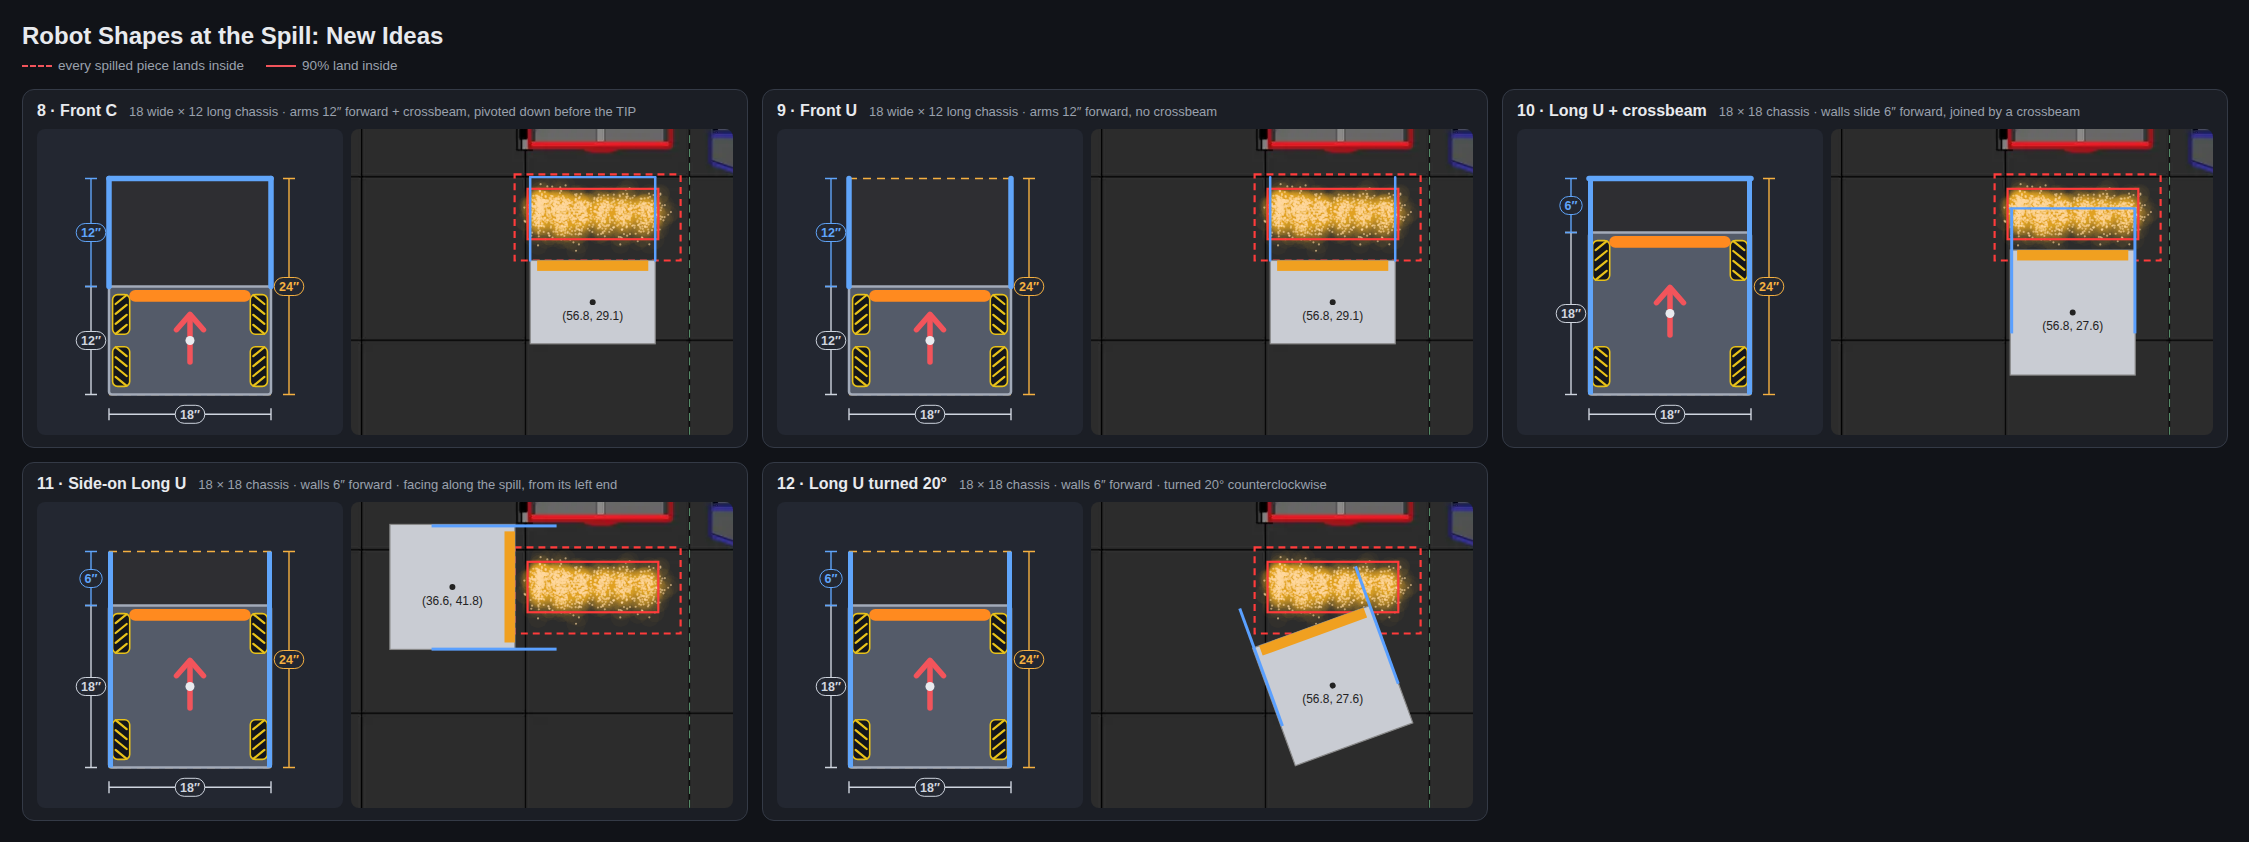
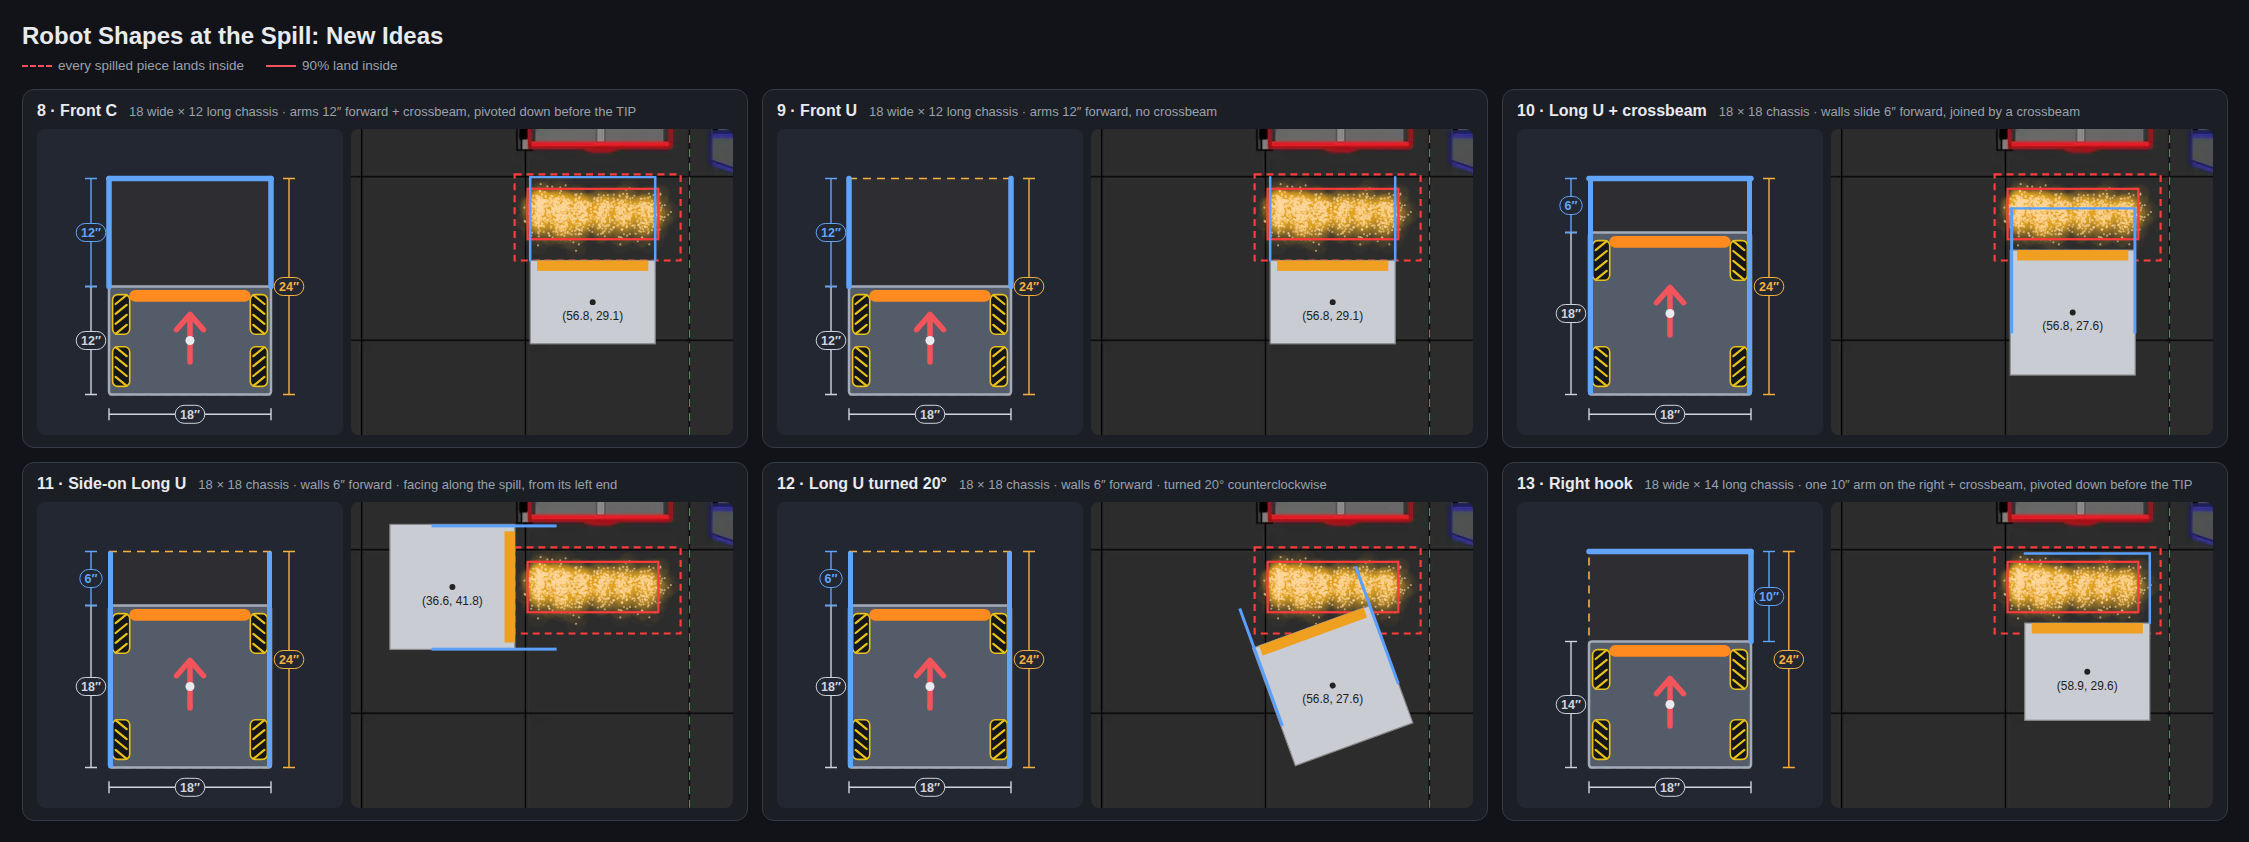
Right hook: a 14 in chassis with one 10 in arm and a crossbeam
Ideas sheet 13 (mentor, 5 Oct 2026): 18 wide x 14 long, only the right
arm, the crossbeam across the full width, the left side open; its face,
crossbeam and right side on the 95% lines (halfway between the 100% and
90% boxes). RobotDesign.flapLeft/flapRight/flapCrossbeam and FieldSim
collide them; BodyShape.FRONT_C, C_14, RIGHT_HOOK;
BodyShapeSpillTest.rightHookAtTheSpill compares them, the hook placed
for each spill. draw.py --right-only.

Refs #156

Claude-Session: https://claude.ai/code/session_017LjAKqBT9wAN9mza2EWhc5

Changed region(s): [[0.6536, 0.5558, 0.996, 0.9881]]

diff --git a/TeamCode/src/test/java/org/firstinspires/ftc/teamcode/logging/BodyShapeSpillTest.java b/TeamCode/src/test/java/org/firstinspires/ftc/teamcode/logging/BodyShapeSpillTest.java
@@ -82,6 +82,10 @@ public class BodyShapeSpillTest {
         }
         assertTrue("a 16 in body's flaps can't reach 3 in out and 3 in forward", threw);
         assertEquals(22, BodyShape.FLAPS_16.footprint()[1], 1e-9);
+        for (BodyShape b : new BodyShape[] {BodyShape.FRONT_C, BodyShape.C_14, BodyShape.RIGHT_HOOK}) {
+            assertEquals(b.name, 24, b.footprint()[0], 1e-9);
+            assertEquals(b.name, 18, b.footprint()[1], 1e-9);
+        }
         assertEquals(18, BodyShape.FLAPS_16.footprint()[0], 1e-9);
     }
 
@@ -103,6 +107,32 @@ public class BodyShapeSpillTest {
         assertTrue("touched before the tiles", p.robotBeforeTile);
         assertTrue("on the flap", p.flapBeforeTile);
         assertFalse("not the frame", p.frameBeforeTile);
+    }
+
+    /**
+     * The right hook has its crossbeam and its right arm and nothing on the left: a robot facing +x at
+     * (70, 25), so its crossbeam runs across x 87 and its right arm along y 16 (its left would be y 34).
+     */
+    @Test
+    public void rightHookHasACrossbeamAndOnlyItsRightArm() {
+        assertTrue("crossbeam", dropOnRobot(BodyShape.RIGHT_HOOK, 87, 25).flapBeforeTile);
+        assertTrue("right arm", dropOnRobot(BodyShape.RIGHT_HOOK, 82, 16).flapBeforeTile);
+        assertFalse("no left arm", dropOnRobot(BodyShape.RIGHT_HOOK, 82, 34).robotBeforeTile);
+        assertTrue("the front C has one", dropOnRobot(BodyShape.FRONT_C, 82, 34).flapBeforeTile);
+    }
+
+    /** A POLLEN dropped from 12 in onto (x, y) beside the robot shaped as {@code b}, facing +x at (70, 25). */
+    private static FieldSim.Piece dropOnRobot(BodyShape b, double x, double y) {
+        List<HiveAssets.StagedPiece> one = new ArrayList<>();
+        one.add(new HiveAssets.StagedPiece("Pollen", "floor", x, y, FieldSim.POLLEN_RADIUS_IN));
+        FieldSim sim = new FieldSim(one, 1);
+        sim.main.design = b.design();
+        sim.setRobot(70, 25, 0, 0, 0, 0, false);
+        FieldSim.Piece p = sim.pieces.get(sim.pieces.size() - 1);
+        p.z = 12;
+        p.touchedTile = false;
+        for (int i = 0; i < 100; i++) sim.step(0.01);
+        return p;
     }
 
     /**
@@ -220,6 +250,48 @@ public class BodyShapeSpillTest {
         java.nio.file.Files.write(file.toPath(), csv.toString().getBytes(java.nio.charset.StandardCharsets.UTF_8));
     }
 
+    /**
+     * The right hook (ideas sheet 13, mentor, 5 Oct 2026) against the shapes it grew from, each where the
+     * pictures put it: the plain robot and the Long U centred on the 90% box with the face halfway between
+     * the 100% and 90% lines; the front C with its face on the 100% line; the hook with its face and
+     * crossbeam on the near and far "95%" lines (halfway between the two boxes) and its right side on the
+     * right one (for the 8 POLLEN spill, and for the match-start spill, which lands 2 in further right). The
+     * same counts as {@link #atTheLandingLine}, the kept patch centred on each robot.
+     */
+    @Test
+    public void rightHookAtTheSpill() {
+        FieldSim.Physics physics = HiveCalibration.current().fit();
+        double boxX = 56.8, face95 = 36.6, right95 = 67.85;  // tools/spill-window/shapes.py: BOX_X, PARK_FACE, RIGHT_95
+        Object[][] cases = {
+                {BodyShape.PLAIN, boxX, face95}, {BodyShape.LONG_U, boxX, face95}, {BodyShape.FRONT_C, boxX, LINE_100_IN},
+                {BodyShape.C_14, boxX, face95}, {BodyShape.RIGHT_HOOK, right95 - 9, face95},
+                // On the match-start spill's right 95% line: its right edges are 72.0 (100%) and 69.2 (90%).
+                {BodyShape.RIGHT_HOOK, (72.0 + 69.2) / 2 - 9, face95}};
+        int[] loads = {0, HiveCalibration.NECTAR_AT_MATCH_START};
+        List<Sweep[]> results = java.util.Arrays.stream(cases).parallel().map(c -> {
+            BodyShape b = (BodyShape) c[0];
+            Sweep[] s = {new Sweep(), new Sweep()};
+            for (int k = 0; k < 2; k++) {
+                for (long seed = 1; seed <= TIPS; seed++) {
+                    Run r = run(physics, seed, b, (Double) c[2] + b.reach(), loads[k], (Double) c[1]);
+                    r.kept = r.keptFace;
+                    s[k].add(r);
+                }
+            }
+            return s;
+        }).collect(Collectors.toList());
+        for (int i = 0; i < cases.length; i++) {
+            BodyShape b = (BodyShape) cases[i][0];
+            Sweep[] s = results.get(i);
+            System.out.println(String.format(Locale.ROOT,
+                    "HOOK %-26s x %5.2f face %4.1f: 8 POLLEN kept %.2f of %.1f a TIP, G409 TIPs %3d (chassis %3d, guides only %3d), over 4 inside %3d"
+                            + " | match start kept %.2f of %.1f, G409 TIPs %3d (chassis %3d, guides only %3d), over 4 inside %3d",
+                    b.name, (Double) cases[i][1], (Double) cases[i][2],
+                    (double) s[0].kept / TIPS, (double) s[0].pieces / TIPS, s[0].tipsTouched, s[0].tipsFrame, s[0].tipsFlapOnly, s[0].overFour,
+                    (double) s[1].kept / TIPS, (double) s[1].pieces / TIPS, s[1].tipsTouched, s[1].tipsFrame, s[1].tipsFlapOnly, s[1].overFour));
+        }
+    }
+
     /** One TIP with the robot shaped as {@code b}, its front-most point {@code nose} in from the wall. */
     static Run run(FieldSim.Physics physics, long seed, BodyShape b, double nose, int nectar) {
         try {
@@ -238,9 +310,24 @@ public class BodyShapeSpillTest {
         return run(physics, seed, b, nose, nectar, log, shown, 0, 0);
     }
 
+    /** As the first, the robot centred at {@code robotX} instead of on the red CELL's axis. */
+    static Run run(FieldSim.Physics physics, long seed, BodyShape b, double nose, int nectar, double robotX) {
+        try {
+            return run(physics, seed, b, nose, nectar, null, -1, 0, 0, robotX);
+        } catch (IOException e) {
+            throw new java.io.UncheckedIOException(e);
+        }
+    }
+
     /** As above, logging only from sim time {@code logFrom} on, at {@code offsetUs} plus the sim time. */
     static Run run(FieldSim.Physics physics, long seed, BodyShape b, double nose, int nectar, WpiLog log, int shown,
                    double logFrom, long offsetUs) throws IOException {
+        return run(physics, seed, b, nose, nectar, log, shown, logFrom, offsetUs, FieldSim.RED_HIVE_X_IN);
+    }
+
+    /** As above, the robot centred at {@code robotX}. */
+    static Run run(FieldSim.Physics physics, long seed, BodyShape b, double nose, int nectar, WpiLog log, int shown,
+                   double logFrom, long offsetUs, double robotX) throws IOException {
         FieldSim sim = new FieldSim(new ArrayList<>(), seed, physics);
         sim.red.locked = true;
         for (int i = 0; i < nectar; i++) {
@@ -252,9 +339,14 @@ public class BodyShapeSpillTest {
         double wallY = towardHighY ? 2 * FieldSim.CENTRE_IN : 0;
         double out = towardHighY ? -1 : 1;
         double half = b.length / 2, halfWidth = b.width / 2;
-        double rx = FieldSim.RED_HIVE_X_IN, ry = wallY + out * (nose - b.reach() - half), heading = out * Math.PI / 2;
+        double rx = robotX, ry = wallY + out * (nose - b.reach() - half), heading = out * Math.PI / 2;
         FieldSim.Bot bot = sim.main;
         bot.design = b.design();
+        if (out < 0) {  // facing the far wall the robot's right is the field's -x: keep a one-sided arm on the same field side
+            boolean left = bot.design.flapLeft;
+            bot.design.flapLeft = bot.design.flapRight;
+            bot.design.flapRight = left;
+        }
         bot.wallsOut = 0;  // the walls go out as the TIP starts, as in SideWallSpillTest; the flaps are out all match
         sim.setRobot(rx, ry, heading, 0, 0, 0, false);
         Shown view = new Shown(sim, log, shown, rx, ry, heading, logFrom, offsetUs);

diff --git a/tools/spill-window/shapes.py b/tools/spill-window/shapes.py
@@ -76,7 +76,7 @@ def dim(x1, y1, x2, y2, label, colour=DIM):
     return o
 
 
-def top_view(w, l, slide, out, fwd, low, outlines=(), crossbeam=False):
+def top_view(w, l, slide, out, fwd, low, outlines=(), crossbeam=False, sides=(-1, 1)):
     """The robot from above, front up, on a 34 x 34 in panel, with its dimensions along the edges."""
     size = CANVAS * S
     cx = size / 2
@@ -124,7 +124,7 @@ def top_view(w, l, slide, out, fwd, low, outlines=(), crossbeam=False):
         hx = cx + side * w / 2 * S
         if slide:
             o.append(f'<line x1="{hx - side * 1.5:.1f}" y1="{back:.1f}" x2="{hx - side * 1.5:.1f}" y2="{nose:.1f}" stroke="{BLUE}" stroke-width="5"/>')
-        if out or fwd:
+        if (out or fwd) and side in sides:
             o.append(f'<line x1="{hx:.1f}" y1="{front:.1f}" x2="{hx + side * out * S:.1f}" y2="{nose:.1f}" stroke="{BLUE}" '
                      f'stroke-width="{4 if low else 5.5}" stroke-linecap="round"{dash}/>')
     if crossbeam:  # a beam joining the front ends of the walls or flaps
@@ -139,13 +139,17 @@ def top_view(w, l, slide, out, fwd, low, outlines=(), crossbeam=False):
     if out:
         o += dim(left - out * S, nose - 1.6 * S, left, nose - 1.6 * S, fmt(out), BLUE)
     if reach:
-        x = left - out * S - 1.6 * S if out else left - 2.0 * S
+        if -1 in sides or slide:
+            x = left - out * S - 1.6 * S if out else left - 2.0 * S
+        else:  # only a right arm: its length beside it
+            x = cx + (w / 2 + out) * S + 2.0 * S
         o += dim(x, front, x, nose, fmt(reach), BLUE)
     # Everything out: overall width above, overall length on the right.
     if across != w:
         o += dim(cx - half, nose - 3.6 * S, cx + half, nose - 3.6 * S, fmt(across), AMBER)
     if ahead != l:
-        o += dim(cx + half + 2.0 * S, back, cx + half + 2.0 * S, nose, fmt(ahead), AMBER)
+        x = cx + half + (4.2 if -1 not in sides else 2.0) * S   # outside a right arm's own length
+        o += dim(x, back, x, nose, fmt(ahead), AMBER)
     o.append('</svg>')
     return "".join(o), (across, ahead)
 
@@ -237,6 +241,8 @@ LEFT_100 = min(r[6] - r[7] for r in rows8)                       # the spill's l
 q = lambda v, p: sorted(v)[min(len(v) - 1, int(p * len(v)))]
 rad = max(r[7] for r in rows8)
 BOX_Y = (q([r[5] for r in rows8], .05) + q([r[5] for r in rows8], .95)) / 2  # the 90% box's centre, out from the wall
+# The right "95%" line: halfway between the right edges of the 100% and 90% boxes.
+RIGHT_95 = (max(r[6] + r[7] for r in rows8) + q([r[6] for r in rows8], .95) + rad) / 2
 # Number and name, spec line, width, length, wall slide, flap out, flap forward, crossbeam, (x, y, heading) on the field.
 IDEAS = [
     ("8 · Front C", "18 wide × 12 long chassis · arms 12″ forward + crossbeam, pivoted down before the TIP",
@@ -249,11 +255,15 @@ IDEAS = [
      18, 18, 6, 0, 0, False, (LEFT_100 - 9, BOX_Y, -90)),
     ("12 · Long U turned 20°", "18 × 18 chassis · walls 6″ forward · turned 20° counterclockwise",
      18, 18, 6, 0, 0, False, (BOX_X, PARK_FACE - 9, 20)),
+    ("13 · Right hook", "18 wide × 14 long chassis · one 10″ arm on the right + crossbeam, pivoted down before the TIP",
+     18, 14, 0, 0, 10, "right", (RIGHT_95 - 9, PARK_FACE - 7, 0)),
 ]
 cards3 = []
 for title, spec, w, l, slide, out, fwd, beam, (x, y, heading) in IDEAS:
-    svg, _ = top_view(w, l, slide, out, fwd, False, (), beam)
-    extra = ["--x", f"{x:.1f}", "--y", f"{y:.1f}", "--heading", f"{heading:g}"] + (["--crossbeam"] if beam else [])
+    sides = (1,) if beam == "right" else (-1, 1)
+    svg, _ = top_view(w, l, slide, out, fwd, False, (), bool(beam), sides)
+    extra = ["--x", f"{x:.1f}", "--y", f"{y:.1f}", "--heading", f"{heading:g}"] + (["--crossbeam"] if beam else []) \
+        + (["--right-only"] if beam == "right" else [])
     field = field_view(w, l, slide, out, fwd, 0, extra=extra, crop=(22, 77, 10, 54))
     cards3.append(f'<div class="card"><div class="head"><h2>{title}</h2><span class="spec">{spec}</span></div>'
                   f'<div class="pics">{svg}{field}</div></div>')

diff --git a/TeamCode/src/test/java/org/firstinspires/ftc/teamcode/logging/BodyShape.java b/TeamCode/src/test/java/org/firstinspires/ftc/teamcode/logging/BodyShape.java
@@ -14,6 +14,8 @@ final class BodyShape {
     final double length, width, slide, out, ahead;
     /** Flap height: {@link RobotDesign#flapHeightIn} unless set. */
     double flapHeight = Double.NaN;
+    /** Which arms it has, and a crossbeam across their free ends ({@link RobotDesign#flapCrossbeam}). */
+    boolean leftArm = true, rightArm = true, crossbeam = false;
 
     BodyShape(String name, double length, double width, double slide, double out, double ahead) {
         this.name = name;
@@ -31,6 +33,16 @@ final class BodyShape {
         return b;
     }
 
+    /** The same shape with a crossbeam, and only the arms named. */
+    BodyShape fenced(String newName, boolean left, boolean right) {
+        BodyShape b = new BodyShape(newName, length, width, slide, out, ahead);
+        b.flapHeight = flapHeight;
+        b.leftArm = left;
+        b.rightArm = right;
+        b.crossbeam = true;
+        return b;
+    }
+
     RobotDesign design() {
         RobotDesign d = RobotDesign.standard().copy("turret, " + name);
         d.frameIn = length;
@@ -40,6 +52,9 @@ final class BodyShape {
         d.flapOutIn = out;
         d.flapForwardIn = ahead;
         if (!Double.isNaN(flapHeight)) d.flapHeightIn = flapHeight;
+        d.flapLeft = leftArm;
+        d.flapRight = rightArm;
+        d.flapCrossbeam = crossbeam;
         return d.checked();
     }
 
@@ -79,6 +94,13 @@ final class BodyShape {
     static final BodyShape RAMPS_18 = new BodyShape("18 + ramps 0 out 6 fwd", 18, 18, 0, 0, 6).low(LOW_GUIDE_IN);
     static final BodyShape[] LOW_BODIES = {FLAPS_16.low(LOW_GUIDE_IN), FLAPS_16_WIDE.low(LOW_GUIDE_IN),
             FLAPS_15.low(LOW_GUIDE_IN), SHORT_18.low(LOW_GUIDE_IN), FLARED_16.low(LOW_GUIDE_IN), RAMPS_18};
+
+    /** Ideas sheet 8: an 18 wide x 12 long chassis, 12 in arms pivoted down in front, joined by a crossbeam. */
+    static final BodyShape FRONT_C = new BodyShape("front C 18x12, arms 12", 12, 18, 0, 0, 12).fenced("front C 18x12, arms 12", true, true);
+    /** The same box on a 14 in chassis with 10 in arms, both arms (to see what dropping one changes). */
+    static final BodyShape C_14 = new BodyShape("C 18x14, arms 10", 14, 18, 0, 0, 10).fenced("C 18x14, arms 10", true, true);
+    /** Ideas sheet 13: the 14 in chassis with only its right arm and the crossbeam; the left side open. */
+    static final BodyShape RIGHT_HOOK = new BodyShape("right hook 18x14, arm 10", 14, 18, 0, 0, 10).fenced("right hook 18x14, arm 10", false, true);
 
     /** The shapes {@link BodyShapeSpillTest#atTheLandingLine} parks at the spill's edge. */
     static final BodyShape[] LANDING = {PLAIN, LONG_U, FLAPS_16, FLAPS_16_WIDE, FLAPS_15, SHORT_18, FLARED_16, RAMPS_18};

diff --git a/tools/spill-window/draw.py b/tools/spill-window/draw.py
@@ -5,7 +5,7 @@
     python3 tools/spill-window/draw.py [--face 35] [--arms 6] [--body 16 16] [--flaps 3 2] [--patch] [csv] [out.html]
 
 --x X centres the robot at x = X (default 58, the red CELL's axis), --y Y at y = Y (instead of from --face); --heading D turns
-it D degrees counterclockwise; --crossbeam joins the front ends of its walls or flaps; --body W L is the frame's width and length (default 18 18); --flaps OUT FWD draws a flap from each front
+it D degrees counterclockwise; --crossbeam joins the front ends of its walls or flaps (across the whole width); --right-only leaves only the right flap; --body W L is the frame's width and length (default 18 18); --flaps OUT FWD draws a flap from each front
 corner to a free end OUT in sideways and FWD in forward (BodyShapeSpillTest); --patch outlines the floor
 counted as "kept" (15 in behind the chassis's front face to 8 in past it, 24 in wide). --kinds draws NECTAR red
 and POLLEN amber; --rest draws where each piece lies 3 s after the TIP instead of where it first landed (the
@@ -64,12 +64,15 @@ if "--heading" in ARGS:
     i = ARGS.index("--heading")
     HEADING = float(ARGS[i + 1])
     del ARGS[i:i + 2]
-FLAGS = {f: f in ARGS for f in ("--patch", "--kinds", "--rest", "--no-robot", "--crossbeam")}
+SIDES = (-1, 1)  # which front corners have a flap: --right-only for just the right one
+FLAGS = {f: f in ARGS for f in ("--patch", "--kinds", "--rest", "--no-robot", "--crossbeam", "--right-only")}
 for f, on in FLAGS.items():
     if on:
         ARGS.remove(f)
 PATCH, KINDS, REST, ROBOT = FLAGS["--patch"], FLAGS["--kinds"], FLAGS["--rest"], not FLAGS["--no-robot"]
 CROSSBEAM = FLAGS["--crossbeam"]
+if FLAGS["--right-only"]:
+    SIDES = (1,)
 CSV = ARGS[0] if ARGS else os.path.join(REPO, "TeamCode/build/sim-logs/spill-first-touch-8-pollen.csv")
 OUT = ARGS[1] if len(ARGS) > 1 else os.path.join(REPO, "sim-review/spill-window.html")
 VIS = [os.environ.get("AUTO_BUILDER_DIR", ""), os.path.join(REPO, "..", "visualizer"),
@@ -150,7 +153,7 @@ if ROBOT:
         for wx in (ROBOT_X - HALF_W, ROBOT_X + HALF_W - 0.25):
             o.append(f'<rect x="{px(wx):.1f}" y="{py(ROBOT_Y + HALF + ARMS):.1f}" width="{max(3.0, 0.25 * K):.1f}" height="{2 * HALF * K}" fill="#5aa0ff"/>')
     if FLAP_OUT or FLAP_FWD:  # flaps, 0.25 in thick (RobotDesign.FLAP_THICKNESS_IN), from the front corners
-        for side in (-1, 1):
+        for side in SIDES:
             hx, hy = ROBOT_X + side * HALF_W, FACE
             o.append(f'<line x1="{px(hx):.1f}" y1="{py(hy):.1f}" x2="{px(hx + side * FLAP_OUT):.1f}" y2="{py(hy + FLAP_FWD):.1f}" '
                      f'stroke="#5aa0ff" stroke-width="{max(2.5, 0.25 * K):.1f}" stroke-linecap="round"/>')

diff --git a/TeamCode/src/test/java/org/firstinspires/ftc/teamcode/logging/FieldSim.java b/TeamCode/src/test/java/org/firstinspires/ftc/teamcode/logging/FieldSim.java
@@ -1151,11 +1151,18 @@ final class FieldSim {
             // RobotDesign#flapOutIn: a thin plate from each front corner to its free end, the tiles up.
             double hl = d.flapLengthIn() / 2, t = RobotDesign.FLAP_THICKNESS_IN / 2;
             for (int side = -1; side <= 1; side += 2) {
+                if (side > 0 ? !d.flapLeft : !d.flapRight) continue;  // +y in the robot's frame is its left
                 double lx = half + d.flapForwardIn / 2, ly = side * (halfWidth + d.flapOutIn / 2);
                 double cx = bx + lx * c - ly * s, cy = by + lx * s + ly * c;
                 double fvx = bot.vx - bot.w * (cy - by), fvy = bot.vy + bot.w * (cx - bx);
                 flap |= box(p, cx, cy, bh + Math.atan2(side * d.flapOutIn, d.flapForwardIn), hl, t, 0, d.flapHeightIn,
                         fvx, fvy, bot.w, bounce(robotRestitution));
+            }
+            if (d.flapCrossbeam) {
+                double lx = half + d.flapForwardIn;
+                double cx = bx + lx * c, cy = by + lx * s;
+                double fvx = bot.vx - bot.w * (cy - by), fvy = bot.vy + bot.w * (cx - bx);
+                flap |= box(p, cx, cy, bh, t, halfWidth + d.flapOutIn, 0, d.flapHeightIn, fvx, fvy, bot.w, bounce(robotRestitution));
             }
         }
         if ((hit || flap) && !p.touchedTile) {

diff --git a/TeamCode/src/test/java/org/firstinspires/ftc/teamcode/logging/RobotDesign.java b/TeamCode/src/test/java/org/firstinspires/ftc/teamcode/logging/RobotDesign.java
@@ -157,6 +157,13 @@ final class RobotDesign {
     /** How tall a flap is; a placeholder until one is drawn (it must stop a rolling 2.8 in POLLEN). */
     double flapHeightIn = 4;
     static final double FLAP_THICKNESS_IN = 0.25;
+    /** Which front corners have a flap (mentor, 5 Oct 2026: a "right hook" has only the right one). */
+    boolean flapLeft = true, flapRight = true;
+    /**
+     * A beam joining the flaps' free ends across the robot's whole width (a "C" in front of the robot,
+     * its front face the fourth side), as tall as the flaps. With one flap it hangs off that one.
+     */
+    boolean flapCrossbeam = false;
 
     boolean hasFlaps() {
         return flapOutIn > 0 || flapForwardIn > 0;
@@ -254,6 +261,9 @@ final class RobotDesign {
         d.flapOutIn = flapOutIn;
         d.flapForwardIn = flapForwardIn;
         d.flapHeightIn = flapHeightIn;
+        d.flapLeft = flapLeft;
+        d.flapRight = flapRight;
+        d.flapCrossbeam = flapCrossbeam;
         return d;
     }
 
